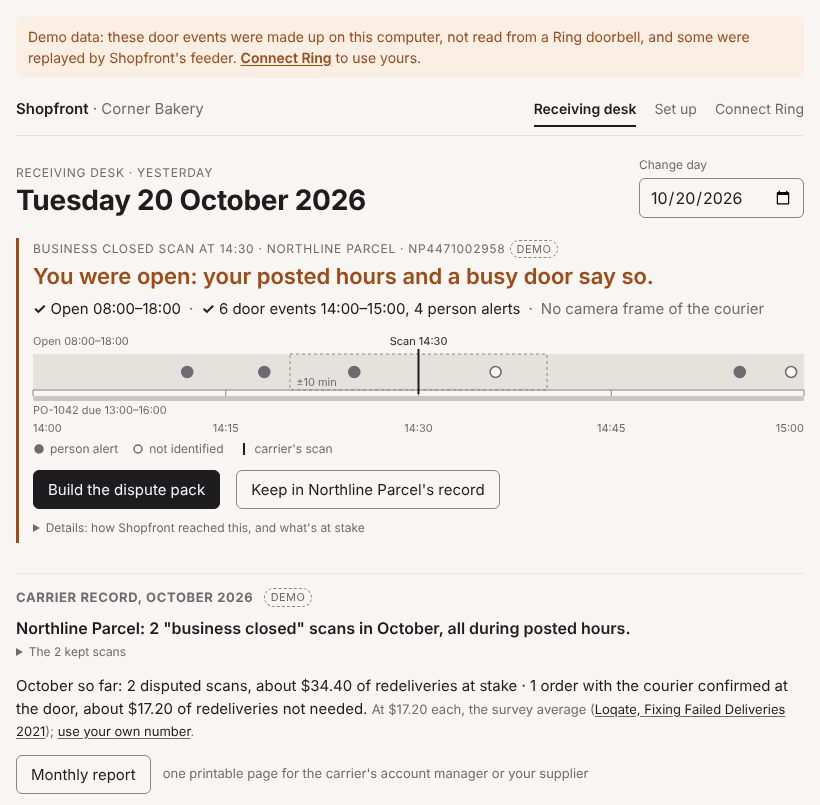
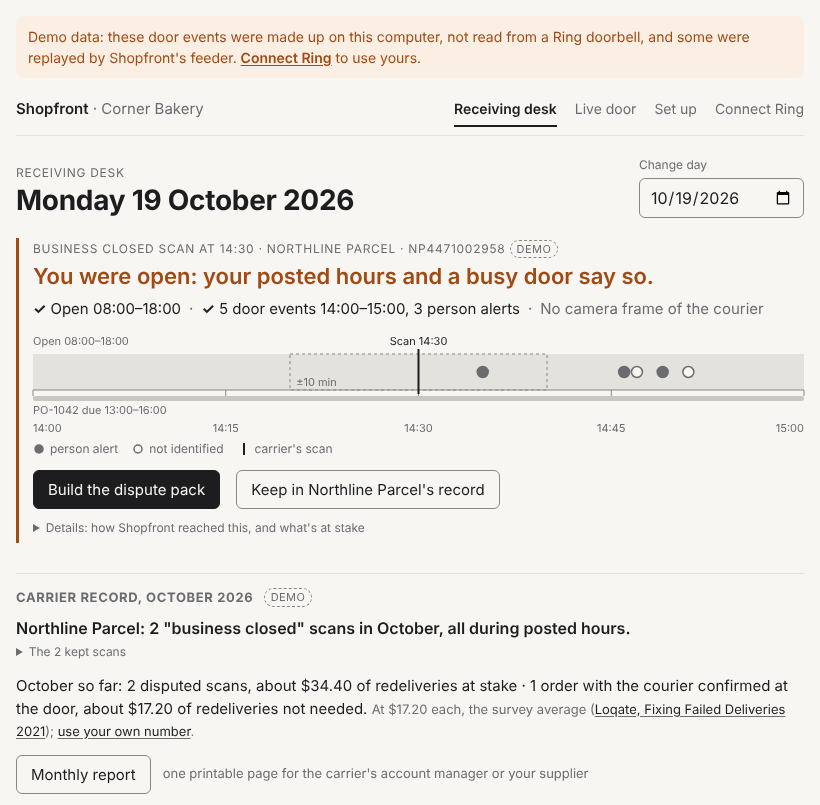
README: "What Shopfront adds", the shop's own loss first, a fresh screenshot
Renames "What only Shopfront does" to "What Shopfront adds" with no "only" claim.
The impact section now opens with the shop's own loss: the demo's scanned order is
$318.75 of butter and cream (samples/orders.csv), which the pack's "At stake" row
names before the $17.20 redelivery estimate, and the desk's "Lost trading" line for
orders marked perishable. The sender-cost estimate follows with every source kept.
docs/img/verdict.png is retaken from the demo (Monday 19 Oct, no doorbell press in
the dairy window, the Live door tab in the header).

Claude-Session: https://claude.ai/code/session_01LL8DfUf345uuoUD8iGZ4bZ

diff --git a/README.md b/README.md
@@ -21,10 +21,10 @@ the doorbell recorded, and builds a dispute pack the owner reviews and sends the
 frame, a webhook sent by Ring itself and a Bedrock label haven't been captured yet.
 [Status and proof](docs/status.md).
 
-## What only Shopfront does
+## What Shopfront adds
 
 A doorbell clip shows who came to the door. On its own it's evidence of a visit, not an answer to the
-carrier's scan. Shopfront goes four steps further:
+carrier's scan. Shopfront adds four steps:
 
 1. **It keeps a record per carrier, month by month.** The desk shows, per carrier, how many "business
    closed" scans it made this month and how many fell in posted hours. `/report` prints that record on one
@@ -37,7 +37,18 @@ carrier's scan. Shopfront goes four steps further:
    who can get a scan corrected. The zip's manifest is signed (Ed25519 or an AWS KMS key), and
    `scripts/verify_pack.py` checks it with no account and no network.
 
-## How many shops this could help: an estimate (US)
+## What a wrong scan costs
+
+**The shop's own loss comes first.** After a "business closed" scan the delivery doesn't happen that day,
+and the shop trades without the stock. In the demo, the order the carrier scanned is butter and cream from
+Valley Creamery, $318.75 on the order ([samples/orders.csv](samples/orders.csv)), and the dispute pack's
+"At stake" row names the stock before the fee: "$318.75 of stock, and about $17.20 for a redelivery". When
+the owner marks an order perishable on the receiving desk (fresh dairy, bread, flowers), the carrier record
+lists it under **Lost trading**: the perishable stock behind each disputed scan this month, at the order's
+own value, as well as the redelivery fees. Shopfront lists those values as written and never adds them up
+into a bigger number.
+
+**What it costs senders, an estimate (US).** The redelivery fee is the part with a published average:
 
 | Factor | Value | Source |
 |---|---|---|
